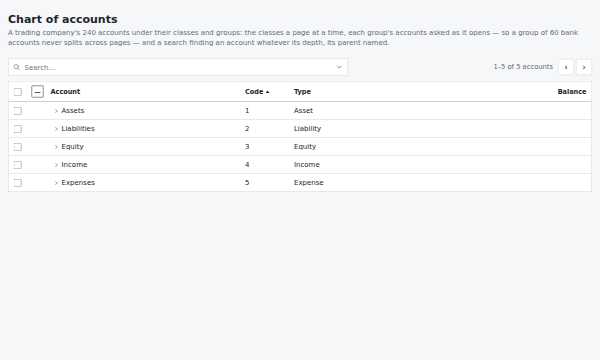
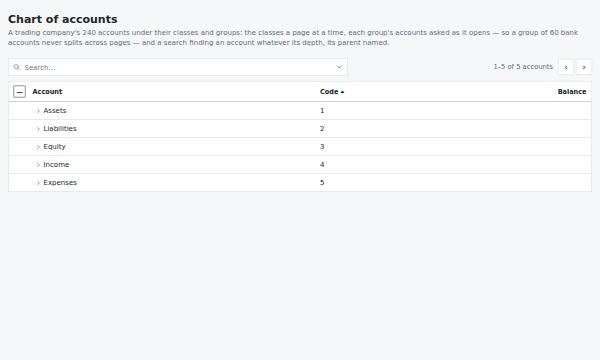
lists: a tree's names wrap on a phone, its chart never sideways

diff --git a/libs/viewer/src/lib/rows-styles.ts b/libs/viewer/src/lib/rows-styles.ts
@@ -42,6 +42,13 @@ tbody[data-ranking] > .fd-list-row:not([data-lifted]) { transition: transform 0.
 /* ---- a tree's children loaded as a parent opens (loadChildren) ---- */
 /* Under a search, a match's parent after its name; a parent's "Show 40 more" set in under its children. */
 .fd-list-tree-in { margin-inline-start: 8px; color: var(--fd-muted); font-size: 12.5px; }
+/* A name set in by its depth wraps where the list is narrow (a phone), never pushing the other columns past its edge. */
+.fd-list-row[data-tree] > td[data-name] { white-space: normal; overflow-wrap: break-word; padding-inline-start: calc(32px + var(--fd-depth, 0) * 20px); text-indent: -22px; }
+/* On a phone: set in less at each depth, and no column for Collapse all — the arrows open and close each parent. */
+@media (max-width: 520px) {
+  .fd-list-row[data-tree] > td[data-name] { padding-inline-start: calc(28px + var(--fd-depth, 0) * 12px); }
+  .fd-list-table:has(> tbody > .fd-list-row[data-tree]) :is(th, td).fd-list-tree { display: none; }
+}
 .fd-list-table > tbody > tr.fd-list-tree-more > td { padding: 4px 10px; padding-inline-start: calc(32px + var(--fd-depth, 0) * 20px); }
 .fd-list-row[aria-busy="true"] > td[data-name] > .fd-list-twisty { opacity: 0.5; }
 /* With its words, in a card on a phone alone. */

diff --git a/libs/viewer/src/lib/list-tree.ts b/libs/viewer/src/lib/list-tree.ts
@@ -92,6 +92,7 @@ export function lazyTree(context: TreeContext): LazyTree | null {
   async function mark(rows: HTMLElement[], depth: number, body: HTMLElement) {
     for (const tr of rows) {
       tr.dataset['depth'] = String(depth);
+      tr.setAttribute('data-tree', '');
       tr.style.setProperty('--fd-depth', String(depth));
       // Its toggle named as the row is: its name's words.
       tr.dataset['treeName'] = tr.querySelector(':scope > td[data-name]')?.textContent ?? tr.dataset['id'] ?? '';
